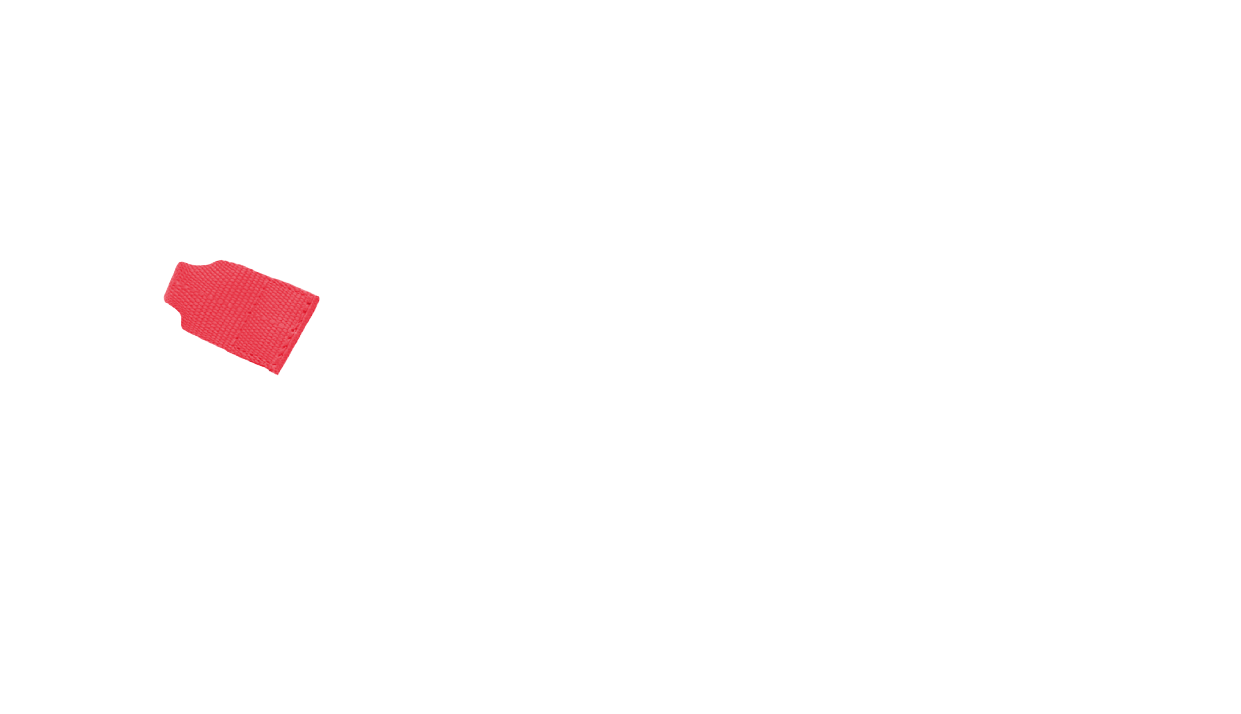
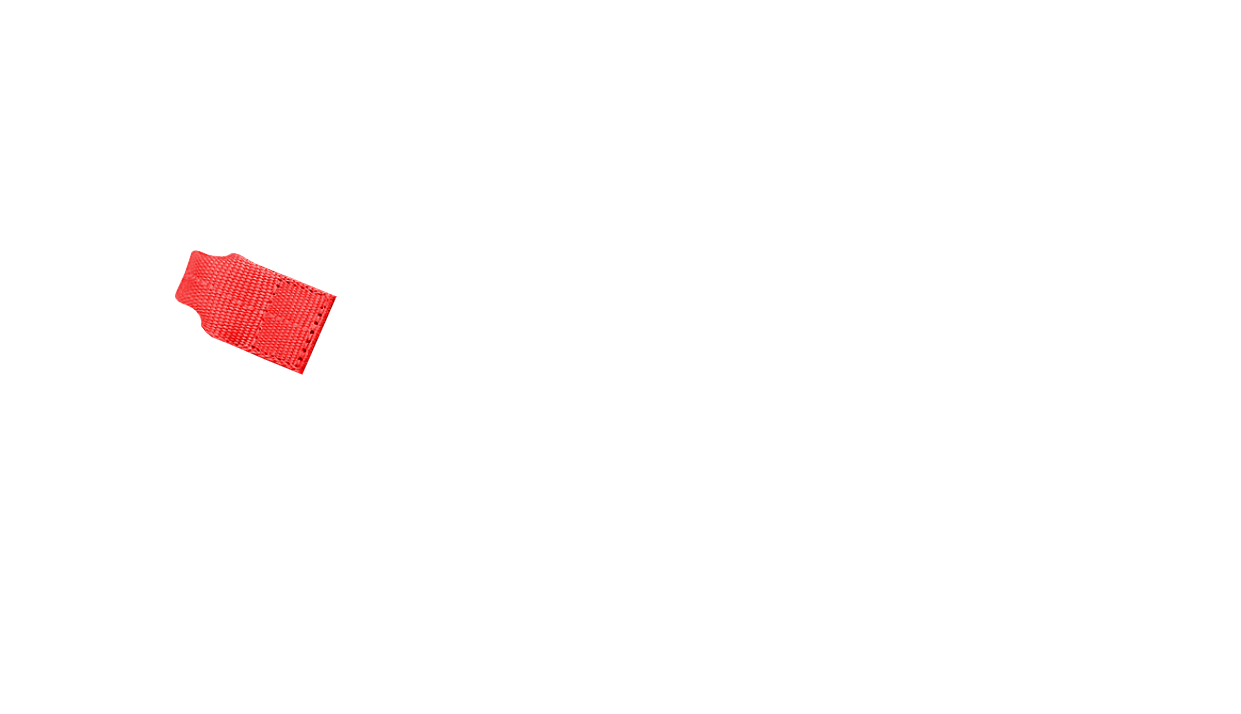
Added Sesame 350V2 knit variant

Changed region(s): [[0.1225, 0.3389, 0.2756, 0.5238]]

diff --git a/src/assets/shoes/350V2/data.ts b/src/assets/shoes/350V2/data.ts
@@ -10,6 +10,7 @@ import StripeNotFull350V2 from './stripe_notfull.png'
 import StripeTailLight350V2 from './stripe_taillight.png'
 import Upper350V2 from './upper.png'
 import UpperLip350V2 from './upper_lip.png'
+import Upper350V2Sesame from './upper_sesame.png'
 
 export const Shoe350V2: IGenericProduct = {
   id: '350V2',
@@ -34,6 +35,11 @@ export const Shoe350V2: IGenericProduct = {
           id: 'upper350V2static',
           file: Upper350V2,
           name: 'Static knit',
+        },
+        {
+          id: 'upper350V2sesame',
+          file: Upper350V2Sesame,
+          name: 'Sesame knit',
         },
       ],
     },
@@ -108,7 +114,7 @@ export const Shoe350V2: IGenericProduct = {
       id: 'laces',
       name: 'Laces',
       zindex: 5,
-      toggleable: true,
+      toggleable: false,
       category: 'laces',
       overrides: {
         brightness: { max: 2 },
